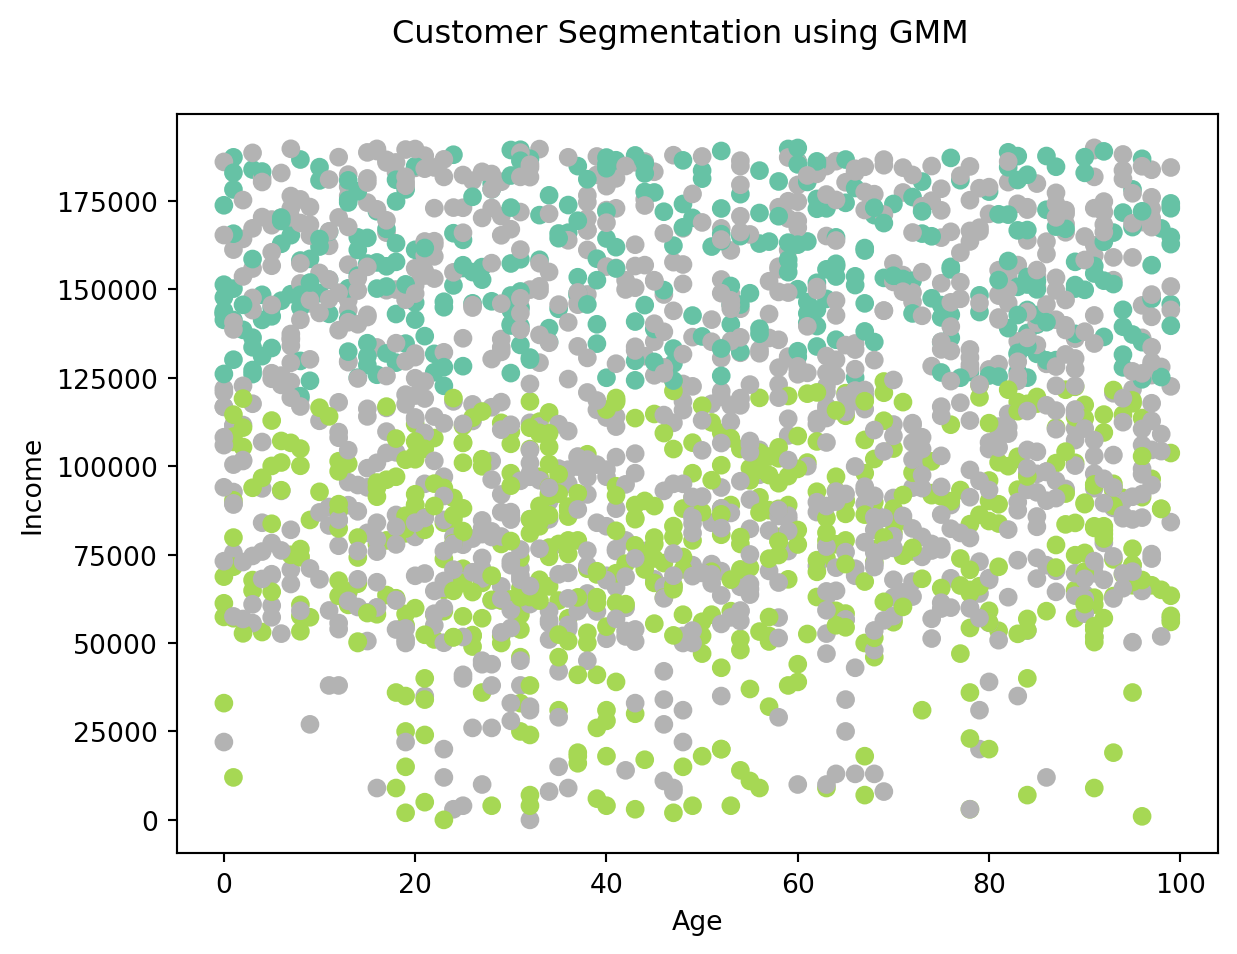
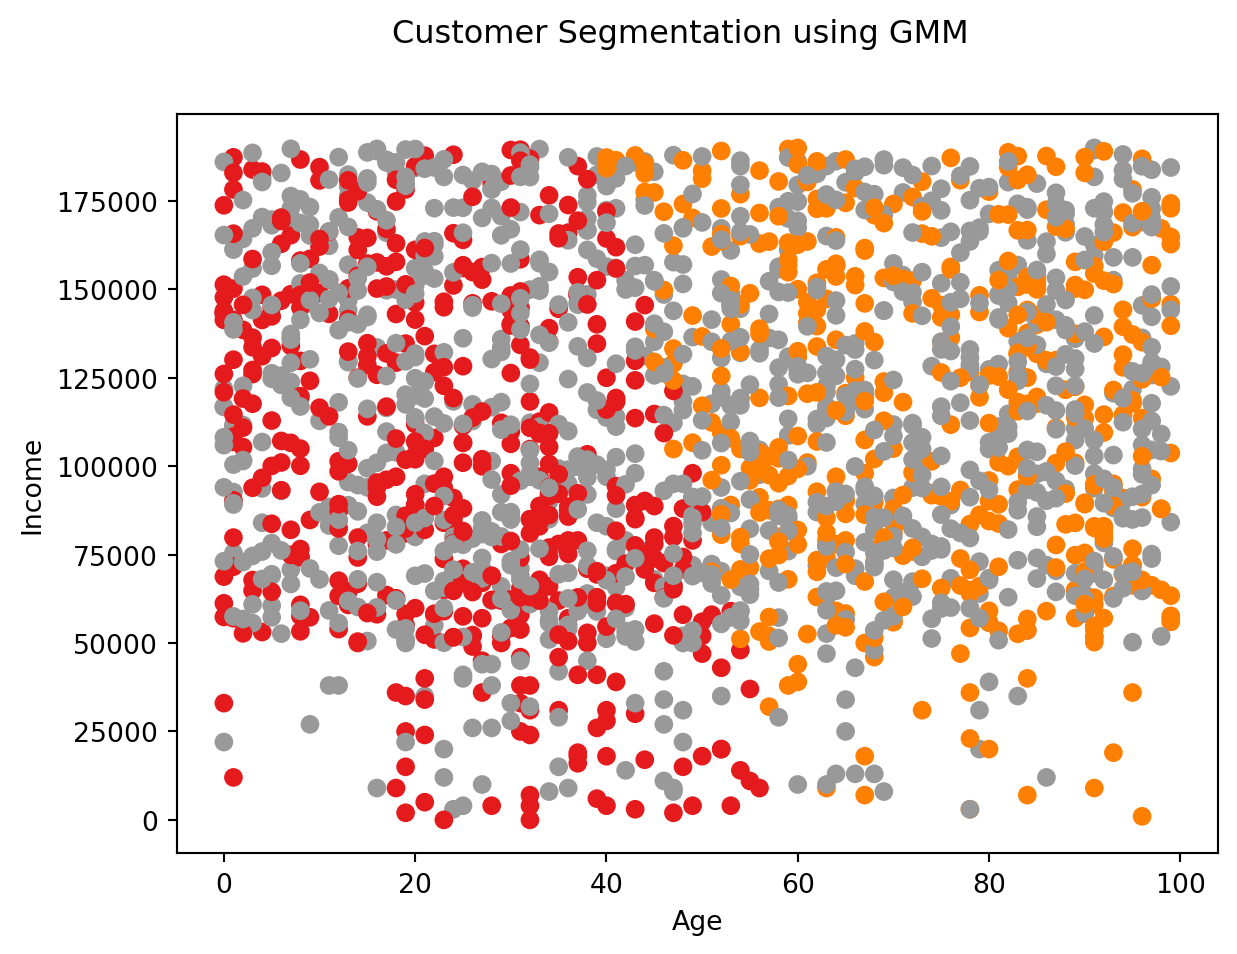
Minor Corrections

diff --git a/posts/blog 2/post2.html b/posts/blog 2/post2.html
@@ -171,7 +171,7 @@ pre > code.sourceCode > span > a:first-child::before { text-decoration: underlin
       <div>
       <div class="quarto-title-meta-heading">Modified</div>
       <div class="quarto-title-meta-contents">
-        <p class="date-modified">November 15, 2023</p>
+        <p class="date-modified">November 16, 2023</p>
       </div>
     </div>
       
@@ -697,9 +697,9 @@ pre > code.sourceCode > span > a:first-child::before { text-decoration: underlin
 <span id="cb13-4"><a href="#cb13-4" aria-hidden="true" tabindex="-1"></a>cluster_labels <span class="op">=</span> gmm.predict(customer_features)</span>
 <span id="cb13-5"><a href="#cb13-5" aria-hidden="true" tabindex="-1"></a>customer_data[<span class="st">'Cluster'</span>] <span class="op">=</span> cluster_labels</span></code><button title="Copy to Clipboard" class="code-copy-button"><i class="bi"></i></button></pre></div>
 </div>
-<p>Finally, we plot the data on a scatterplot.</p>
+<p>Finally, we plot the data on a scatterplot using <code>Age</code> and <code>Annual Income ($)</code>.</p>
 <div class="cell" data-execution_count="14">
-<div class="sourceCode cell-code" id="cb14"><pre class="sourceCode python code-with-copy"><code class="sourceCode python"><span id="cb14-1"><a href="#cb14-1" aria-hidden="true" tabindex="-1"></a>plt.scatter(x<span class="op">=</span>customer_data[<span class="st">"Age"</span>], y<span class="op">=</span>customer_data[<span class="st">"Annual Income ($)"</span>], c<span class="op">=</span>cluster_labels, cmap<span class="op">=</span><span class="st">"Set2"</span>)</span>
+<div class="sourceCode cell-code" id="cb14"><pre class="sourceCode python code-with-copy"><code class="sourceCode python"><span id="cb14-1"><a href="#cb14-1" aria-hidden="true" tabindex="-1"></a>plt.scatter(x<span class="op">=</span>customer_data[<span class="st">"Age"</span>], y<span class="op">=</span>customer_data[<span class="st">"Annual Income ($)"</span>], c<span class="op">=</span>cluster_labels, cmap<span class="op">=</span><span class="st">"Set1"</span>)</span>
 <span id="cb14-2"><a href="#cb14-2" aria-hidden="true" tabindex="-1"></a>plt.xlabel(<span class="st">"Age"</span>)</span>
 <span id="cb14-3"><a href="#cb14-3" aria-hidden="true" tabindex="-1"></a>plt.ylabel(<span class="st">"Income"</span>)</span>
 <span id="cb14-4"><a href="#cb14-4" aria-hidden="true" tabindex="-1"></a>plt.suptitle(<span class="st">'Customer Segmentation using GMM'</span>)</span>

diff --git a/index.html b/index.html
@@ -170,7 +170,7 @@ ul.task-list li input[type="checkbox"] {
 
 <div class="quarto-listing quarto-listing-container-default" id="listing-listing">
 <div class="list quarto-listing-default">
-<div class="quarto-post image-right" data-index="0" data-listing-file-modified-sort="1700191554129" data-listing-reading-time-sort="1">
+<div class="quarto-post image-right" data-index="0" data-listing-file-modified-sort="1700192731888" data-listing-reading-time-sort="1">
 <div class="thumbnail">
 <p><a href="./posts/blog 2/post3.html"> <!-- img(9CEB782EFEE6)[progressive=false, height=]:posts/blog 2/post3.html --> </a></p>
 </div>
@@ -190,7 +190,7 @@ ul.task-list li input[type="checkbox"] {
 <a href="./posts/blog 2/post3.html"> </a>
 </div>
 </div>
-<div class="quarto-post image-right" data-index="1" data-listing-date-sort="1700024400000" data-listing-file-modified-sort="1700191926767" data-listing-date-modified-sort="1700024400000" data-listing-reading-time-sort="7">
+<div class="quarto-post image-right" data-index="1" data-listing-date-sort="1700024400000" data-listing-file-modified-sort="1700194162459" data-listing-date-modified-sort="1700110800000" data-listing-reading-time-sort="7">
 <div class="thumbnail">
 <p><a href="./posts/blog 2/post2.html"> <!-- img(9CEB782EFEE6)[progressive=false, height=]:posts/blog 2/post2.html --> </a></p>
 </div>
